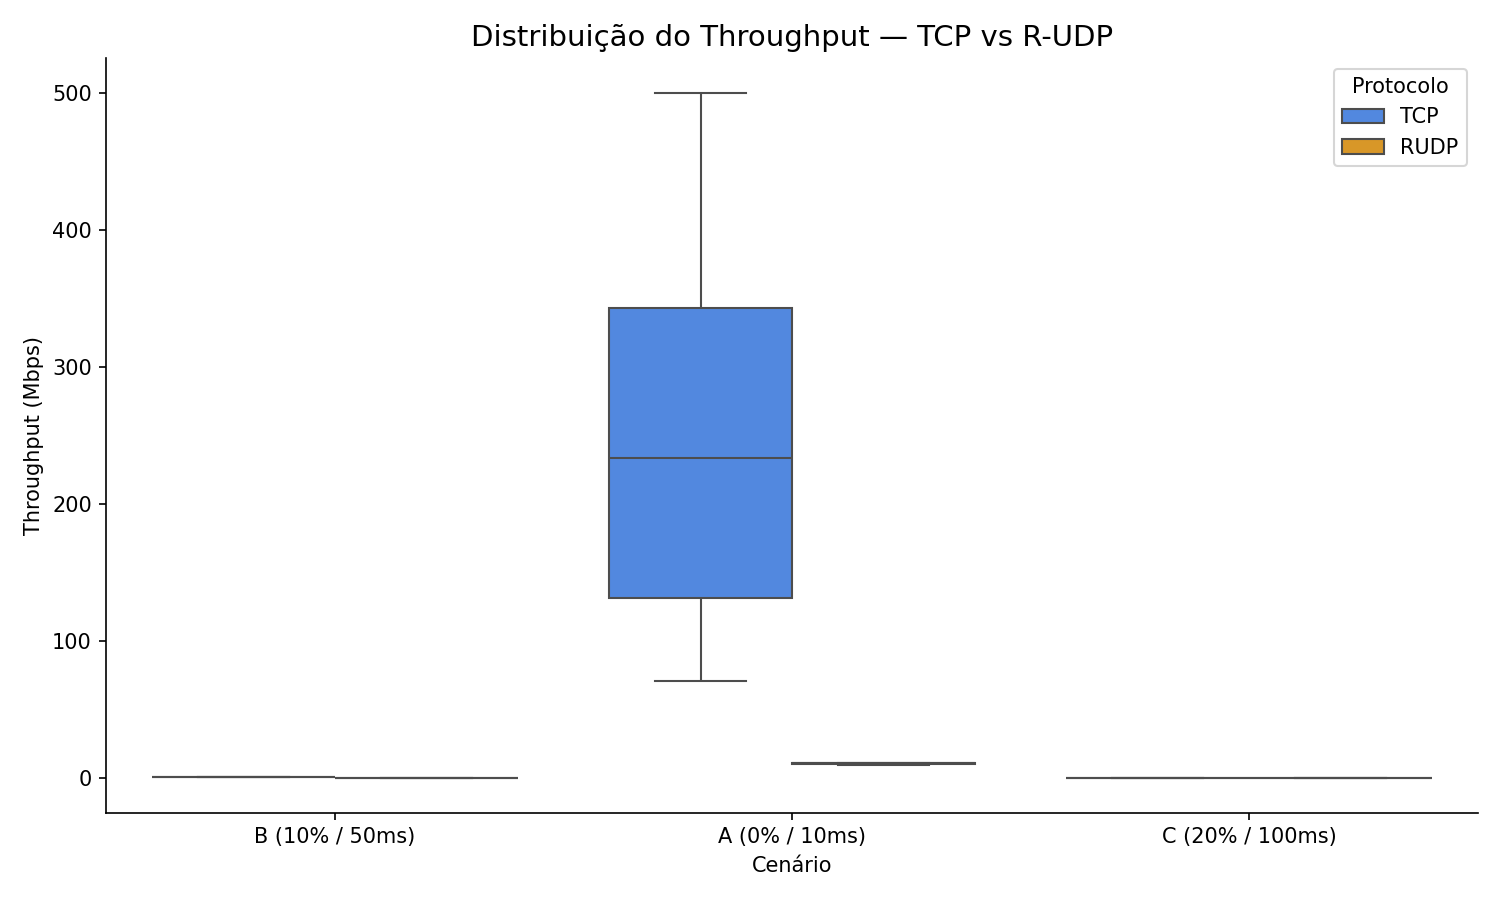
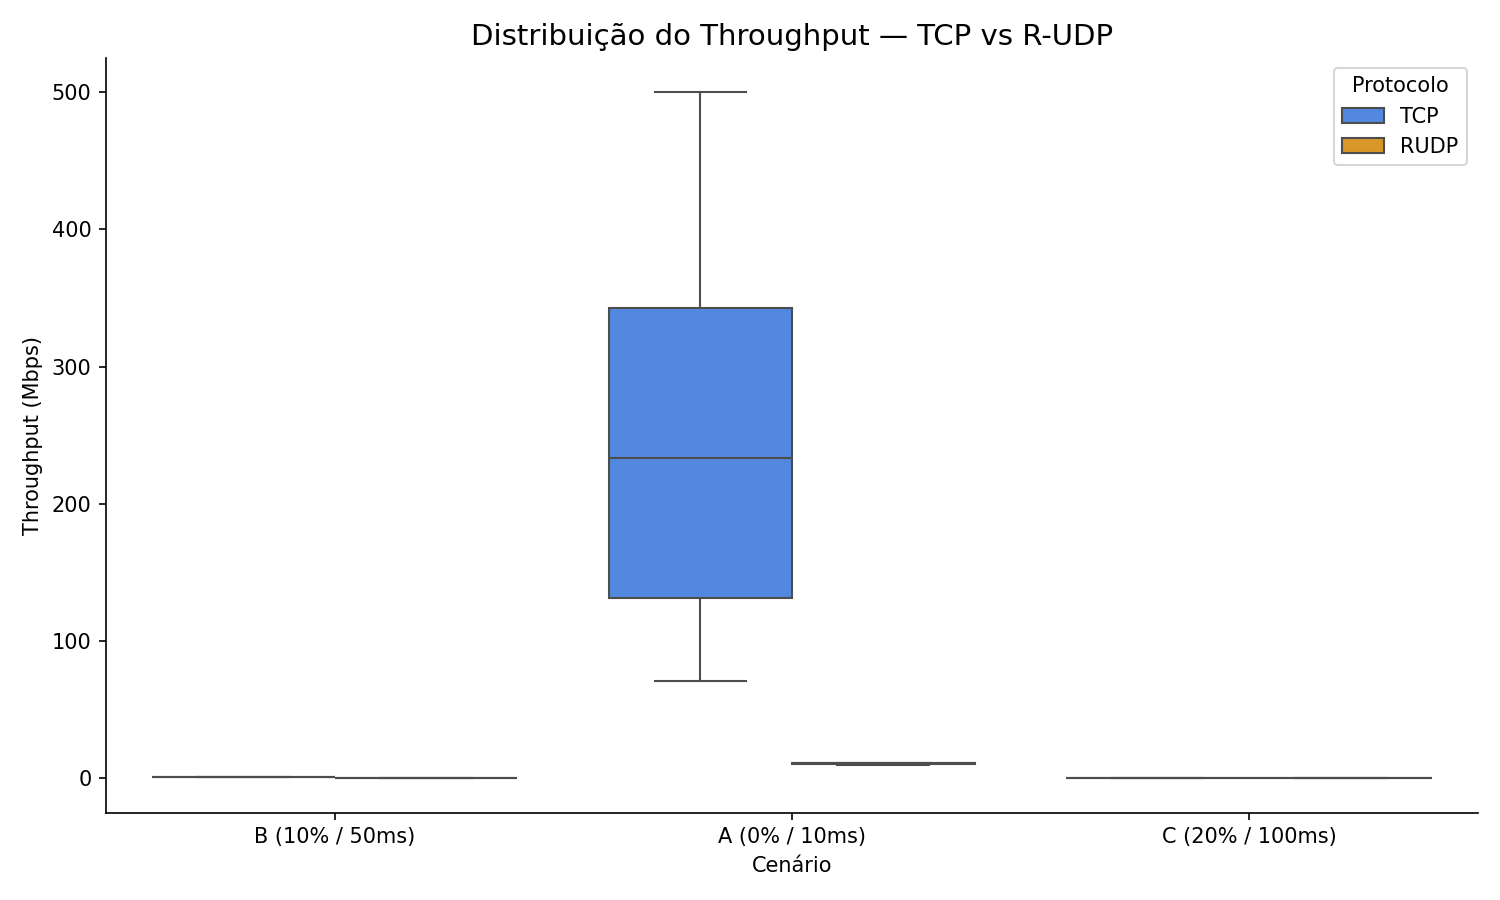
Phase 1 complete

diff --git a/analysis/analysis.py b/analysis/analysis.py
@@ -1,16 +1,3 @@
-# analyze.py — Análise estatística e geração de gráficos
-#
-# Gera:
-#   - Throughput médio ± desvio padrão (TCP vs R-UDP por cenário)
-#   - Retransmissões por cenário
-#   - Atraso (tempo de transferência) por cenário
-#   - Integração: bytes da aplicação vs bytes capturados (tcpdump)
-#   - Todos os gráficos salvos em analysis/plots/
-#
-# Uso:
-#   python3 analysis/analyze.py
-# =============================================================
-
 import os
 import json
 import glob
@@ -57,41 +44,13 @@ def load_app_metrics() -> pd.DataFrame:
             print(f"[WARN] Erro ao ler {path}: {e}")
 
     if not records:
-        print("[WARN] Nenhum JSON de métricas encontrado. Usando dados simulados para demonstração.")
-        return _synthetic_data()
+        print("[WARN] Nenhum JSON de métricas encontrado.")
+        return
 
     df = pd.DataFrame(records)
     # Normaliza nomes de coluna
     df.columns = [c.lower() for c in df.columns]
     return df
-
-
-def _synthetic_data() -> pd.DataFrame:
-    """Dados sintéticos para demonstrar os gráficos quando não há execuções reais."""
-    np.random.seed(42)
-    rows = []
-    params = {
-        ("TCP",  "A"): (9.5,  0.3,  0.05, 0),
-        ("TCP",  "B"): (4.2,  0.8,  0.25, 0),
-        ("TCP",  "C"): (1.8,  0.5,  0.80, 0),
-        ("RUDP", "A"): (8.9,  0.4,  0.06, 2),
-        ("RUDP", "B"): (3.5,  0.9,  0.35, 45),
-        ("RUDP", "C"): (1.2,  0.4,  1.20, 180),
-    }
-    for (proto, sc), (thr_mean, thr_std, ela_mean, retx) in params.items():
-        for _ in range(5):   # 5 execuções por combinação
-            thr  = max(0.1, np.random.normal(thr_mean, thr_std))
-            ela  = max(0.01, np.random.normal(ela_mean, ela_mean * 0.1))
-            rows.append({
-                "protocol":        proto,
-                "scenario":        sc,
-                "throughput_mbps": round(thr, 4),
-                "elapsed_s":       round(ela, 4),
-                "retransmits":     int(abs(np.random.poisson(max(0, retx)))),
-                "bytes_total":     10 * 1024 * 1024,
-            })
-    return pd.DataFrame(rows)
-
 
 def load_pcap_csv() -> pd.DataFrame:
     """Carrega CSVs gerados pelo tshark e agrega bytes por protocolo/cenário."""
@@ -105,7 +64,10 @@ def load_pcap_csv() -> pd.DataFrame:
         protocol = parts[1].upper()
         scenario = parts[2].upper()
         try:
-            df = pd.read_csv(path)
+            # Algumas capturas antigas podem estar malformadas (múltiplos IPs sem aspas)
+            # Usamos on_bad_lines='skip' para ignorar essas linhas ruidosas.
+            df = pd.read_csv(path, on_bad_lines='skip', engine='python')
+            
             # tshark exporta frame.len como coluna de tamanho
             size_col = next((c for c in df.columns if "len" in c.lower()), None)
             total_bytes = int(df[size_col].sum()) if size_col else 0
@@ -159,9 +121,8 @@ def plot_throughput(df: pd.DataFrame):
         template="plotly_white",
         legend_title="Protocolo",
     )
-    path = os.path.join(PLOT_DIR, "throughput.html")
-    fig.write_html(path)
-    fig.write_image(path.replace(".html", ".png"), scale=2)
+    path = os.path.join(PLOT_DIR, "throughput.png")
+    fig.write_image(path, scale=2)
     print(f"[PLOT] {path}")
     return fig
 
@@ -195,9 +156,8 @@ def plot_transfer_time(df: pd.DataFrame):
         template="plotly_white",
         legend_title="Protocolo",
     )
-    path = os.path.join(PLOT_DIR, "transfer_time.html")
-    fig.write_html(path)
-    fig.write_image(path.replace(".html", ".png"), scale=2)
+    path = os.path.join(PLOT_DIR, "transfer_time.png")
+    fig.write_image(path, scale=2)
     print(f"[PLOT] {path}")
     return fig
 
@@ -229,9 +189,8 @@ def plot_retransmissions(df: pd.DataFrame):
         yaxis_title="Retransmissões",
         template="plotly_white",
     )
-    path = os.path.join(PLOT_DIR, "retransmissions.html")
-    fig.write_html(path)
-    fig.write_image(path.replace(".html", ".png"), scale=2)
+    path = os.path.join(PLOT_DIR, "retransmissions.png")
+    fig.write_image(path, scale=2)
     print(f"[PLOT] {path}")
     return fig
 
@@ -285,9 +244,8 @@ def plot_data_integration(app_df: pd.DataFrame, pcap_df: pd.DataFrame):
         template="plotly_white",
         legend_title="Fonte",
     )
-    path = os.path.join(PLOT_DIR, "data_integration.html")
-    fig.write_html(path)
-    fig.write_image(path.replace(".html", ".png"), scale=2)
+    path = os.path.join(PLOT_DIR, "data_integration.png")
+    fig.write_image(path, scale=2)
     print(f"[PLOT] {path}")
 
 
@@ -319,9 +277,8 @@ def plot_packet_loss_impact(df: pd.DataFrame):
         template="plotly_white",
         legend_title="Protocolo",
     )
-    path = os.path.join(PLOT_DIR, "loss_impact.html")
-    fig.write_html(path)
-    fig.write_image(path.replace(".html", ".png"), scale=2)
+    path = os.path.join(PLOT_DIR, "loss_impact.png")
+    fig.write_image(path, scale=2)
     print(f"[PLOT] {path}")
 
 

diff --git a/client.py b/client.py
@@ -1,12 +1,3 @@
-# ============================================================
-# client.py — Cliente TCP / R-UDP (Selective Repeat)
-# PPGCC/UFPI — Redes de Computadores 2026-1
-#
-# Uso:
-#   python client.py --mode tcp   --file arquivo.bin --host 172.20.0.2 --scenario A
-#   python client.py --mode rudp  --file arquivo.bin --host 172.20.0.2 --scenario B
-# ============================================================
-
 import socket
 import threading
 import argparse
@@ -32,6 +23,7 @@ from utils import (
 def send_tcp(host: str, filepath: str, scenario: str):
     filename = os.path.basename(filepath)
     filesize = os.path.getsize(filepath)
+
     print(f"[TCP] Enviando '{filename}' ({filesize:,} bytes)  →  {host}:{SERVER_PORT_TCP}")
 
     logger = TransferLogger("TCP", scenario, "send")
@@ -84,12 +76,6 @@ class SRSender:
         self.next_seq = 0          # próximo seq a enviar
 
         self.window: dict[int, dict] = {}
-        # window[seq] = {
-        #   "pkt":     bytes,        # pacote empacotado
-        #   "acked":   bool,
-        #   "retries": int,
-        #   "timer":   float,        # timestamp do último envio
-        # }
 
         # RTO Adaptativo (Jacobson/Karels)
         self.srtt = None           # Smoothed Round Trip Time
@@ -163,7 +149,6 @@ class SRSender:
         self.logger.log_event("retransmit", seq=seq, note=f"retry={slot['retries']} RTO={self.rto:.3f}")
 
     # --- Verificação e retransmissão por timeout ---
-
     def _check_timeouts(self):
         now = time.perf_counter()
         with self.lock:
@@ -172,7 +157,6 @@ class SRSender:
                     self._retransmit(seq, now)
 
     # --- Envio de um bloco de dados ---
-
     def send_chunk(self, seq: int, payload: bytes):
         pkt = pack_packet(seq, 0, FLAG_DATA, payload, X_CUSTOM_AUTH)
         with self.lock:
@@ -188,7 +172,6 @@ class SRSender:
         self.logger.log_event("sent", seq=seq, size=len(payload))
 
     # --- Espera a janela ter espaço ---
-
     def wait_for_window(self):
         while True:
             with self.lock:
@@ -200,7 +183,6 @@ class SRSender:
             time.sleep(0.01)
 
     # --- Envia FIN e aguarda confirmação via flag ---
-
     def send_fin(self):
         fin_pkt = pack_packet(self.next_seq, 0, FLAG_FIN, b"", X_CUSTOM_AUTH)
         print("[R-UDP] Enviando FIN...")
@@ -208,7 +190,7 @@ class SRSender:
             with self.lock:
                 if self.done: return
             self.sock.sendto(fin_pkt, self.addr)
-            
+
             # Aguarda um pouco o ACK vir pela thread listener
             for _ in range(int(TIMEOUT * 10)):
                 time.sleep(0.1)
@@ -217,7 +199,7 @@ class SRSender:
                         print("[R-UDP] FIN confirmado (via listener).")
                         return
             print(f"[R-UDP] FIN timeout (tentativa {attempt+1})")
-        
+
         print("[R-UDP] FIN não confirmado — encerrando mesmo assim.")
         with self.lock:
             self.done = True
@@ -226,6 +208,7 @@ class SRSender:
 def send_rudp(host: str, filepath: str, scenario: str):
     filename = os.path.basename(filepath)
     filesize = os.path.getsize(filepath)
+
     print(f"[R-UDP] Enviando '{filename}' ({filesize:,} bytes)  →  {host}:{SERVER_PORT_RUDP}")
 
     logger = TransferLogger("RUDP", scenario, "send")
@@ -304,31 +287,7 @@ def send_rudp(host: str, filepath: str, scenario: str):
 # ──────────────────────────────────────────────────────────────────
 
 def main():
-    parser = argparse.ArgumentParser(description="Cliente TCP/R-UDP — PPGCC/UFPI")
-    parser.add_argument("--mode",     choices=["tcp", "rudp"], required=True)
-    parser.add_argument("--host",     default="127.0.0.1")
-    parser.add_argument("--file",     required=True, help="Arquivo a enviar")
-    parser.add_argument("--scenario", choices=["A", "B", "C"], default="A")
-    args = parser.parse_args()
-
-    if not os.path.isfile(args.file):
-        print(f"Erro: arquivo '{args.file}' não encontrado.")
-        sys.exit(1)
-
-    if args.mode == "tcp":
-        send_tcp(args.host, args.file, args.scenario)
-    else:
-        send_rudp(args.host, args.file, args.scenario)
-
-
-if __name__ == "__main__":
-    main()
-
-# ENTRY POINT
-# ──────────────────────────────────────────────────────────────────
-
-def main():
-    parser = argparse.ArgumentParser(description="Cliente TCP/R-UDP — PPGCC/UFPI")
+    parser = argparse.ArgumentParser(description="Cliente TCP/R-UDP")
     parser.add_argument("--mode",     choices=["tcp", "rudp"], required=True)
     parser.add_argument("--host",     default="127.0.0.1")
     parser.add_argument("--file",     required=True, help="Arquivo a enviar")

diff --git a/utils.py b/utils.py
@@ -1,8 +1,3 @@
-# ============================================================
-# utils.py — Utilitários compartilhados
-# PPGCC/UFPI — Redes de Computadores 2026-1
-# ============================================================
-
 import hashlib
 import time
 import csv
@@ -22,22 +17,6 @@ def checksum_md5(data: bytes) -> bytes:
 
 def verify_checksum(data: bytes, received_checksum: bytes) -> bool:
     return checksum_md5(data) == received_checksum
-
-
-# ------------------------------------------------------------------
-# Empacotamento de pacotes R-UDP
-#
-# Formato do cabeçalho (26 bytes fixos):
-#   [seq_num: 4B][ack_num: 4B][flags: 1B][chunk_size: 4B][checksum: 16B][auth_len: 1B]
-#   [auth: auth_len bytes]
-#   [payload: chunk_size bytes]
-#
-# Flags:
-#   0x01 = DATA
-#   0x02 = ACK
-#   0x04 = FIN
-#   0x08 = SYN
-# ------------------------------------------------------------------
 
 FLAG_DATA = 0x01
 FLAG_ACK  = 0x02

diff --git a/server.py b/server.py
@@ -1,11 +1,3 @@
-# ============================================================
-# server.py — Servidor TCP / R-UDP (Multimodal)
-# PPGCC/UFPI — Redes de Computadores 2026-1
-#
-# Uso:
-#   python server.py
-# ============================================================
-
 import socket
 import threading
 import argparse
@@ -94,7 +86,7 @@ def run_tcp_server():
 def run_rudp_server():
     sock = socket.socket(socket.AF_INET, socket.SOCK_DGRAM)
     sock.bind((DEFAULT_HOST, SERVER_PORT_RUDP))
-    # Removemos o timeout global para que o servidor fique sempre ouvindo
+
     print(f"[R-UDP] Servidor ativo em {DEFAULT_HOST}:{SERVER_PORT_RUDP}")
 
     expected = 0
@@ -175,7 +167,7 @@ def run_rudp_server():
         elif seq < expected:
             pass
 
-        # ACK individual
+        # ACK individua
         ack_pkt = pack_packet(0, seq, FLAG_ACK, b"", X_CUSTOM_AUTH)
         sock.sendto(ack_pkt, addr)
 
@@ -197,7 +189,7 @@ def main():
     tcp_thread.start()
     rudp_thread.start()
 
-    print("=== Servidor PPGCC Multimodal Iniciado ===")
+    print("=== Servidor Multimodal Iniciado ===")
     print("Pressione Ctrl+C para encerrar.")
 
     try:

diff --git a/config.py b/config.py
@@ -1,8 +1,3 @@
-# ============================================================
-# config.py — Configurações globais do projeto
-# PPGCC/UFPI — Redes de Computadores 2026-1
-# ============================================================
-
 # --- Rede ---
 DEFAULT_HOST = "0.0.0.0"
 SERVER_PORT_TCP  = 5001